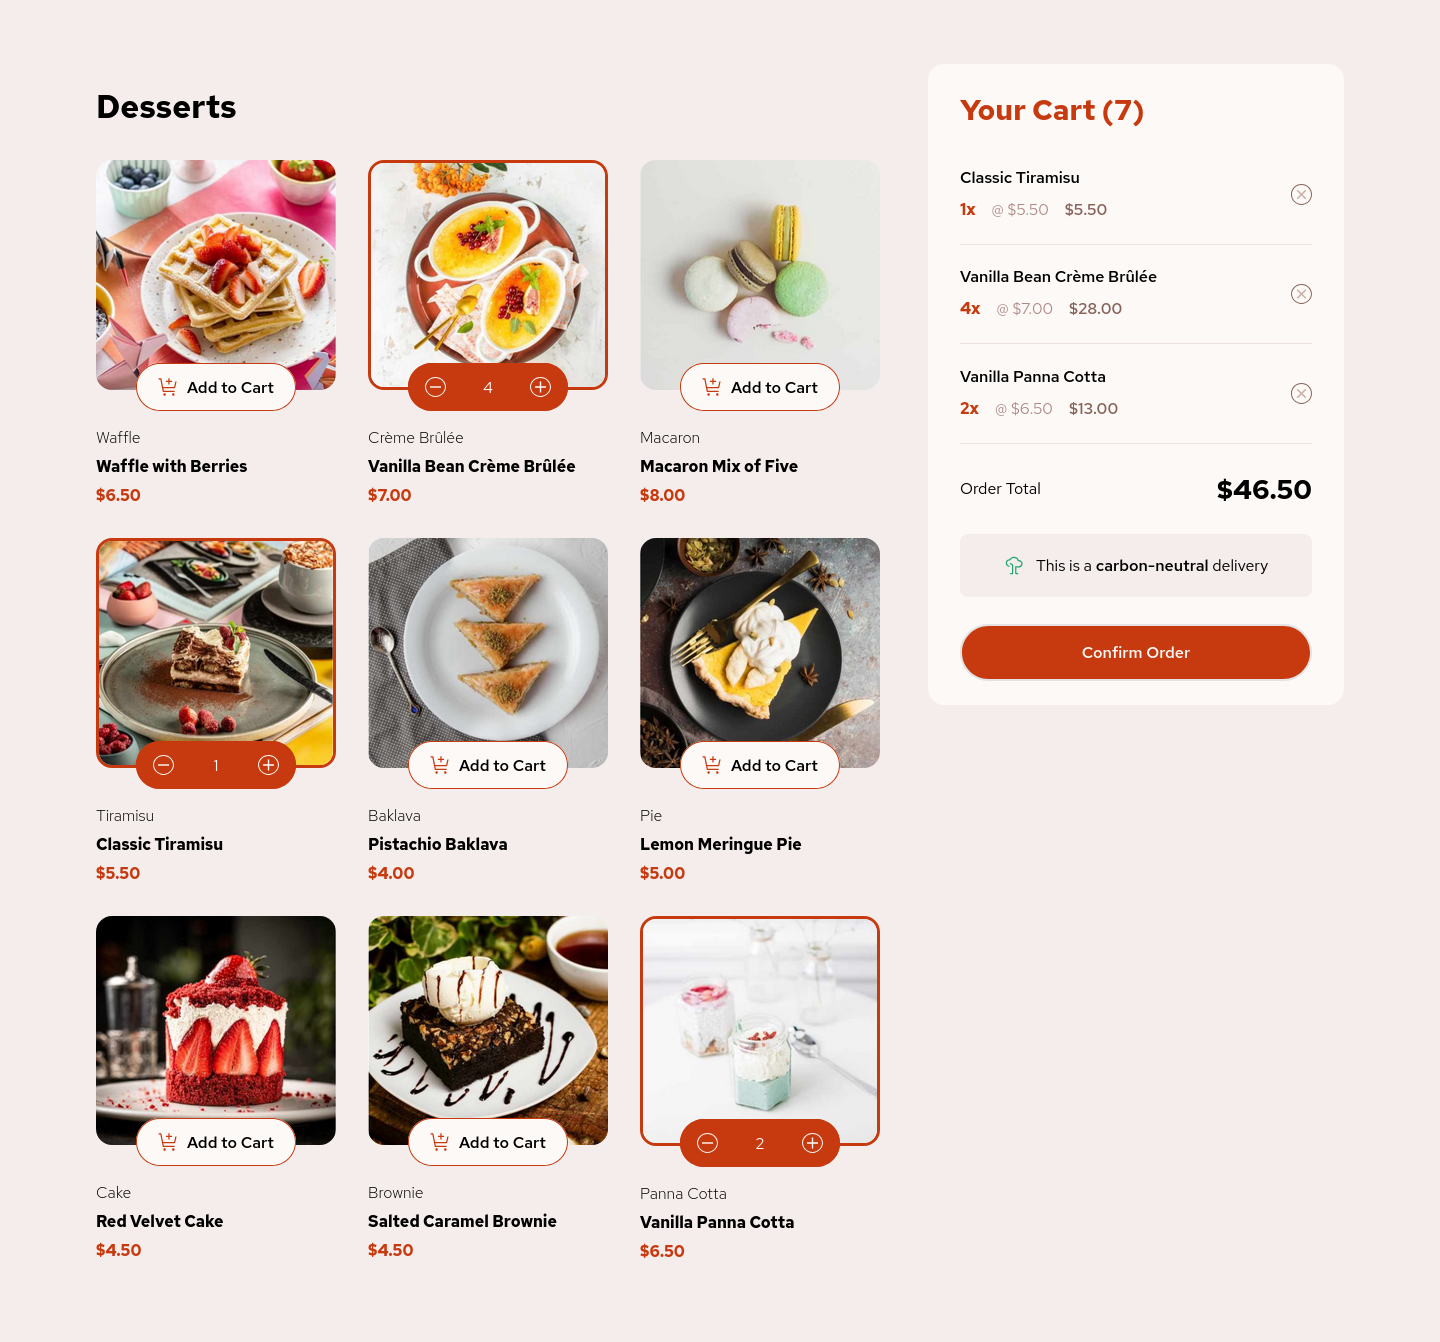
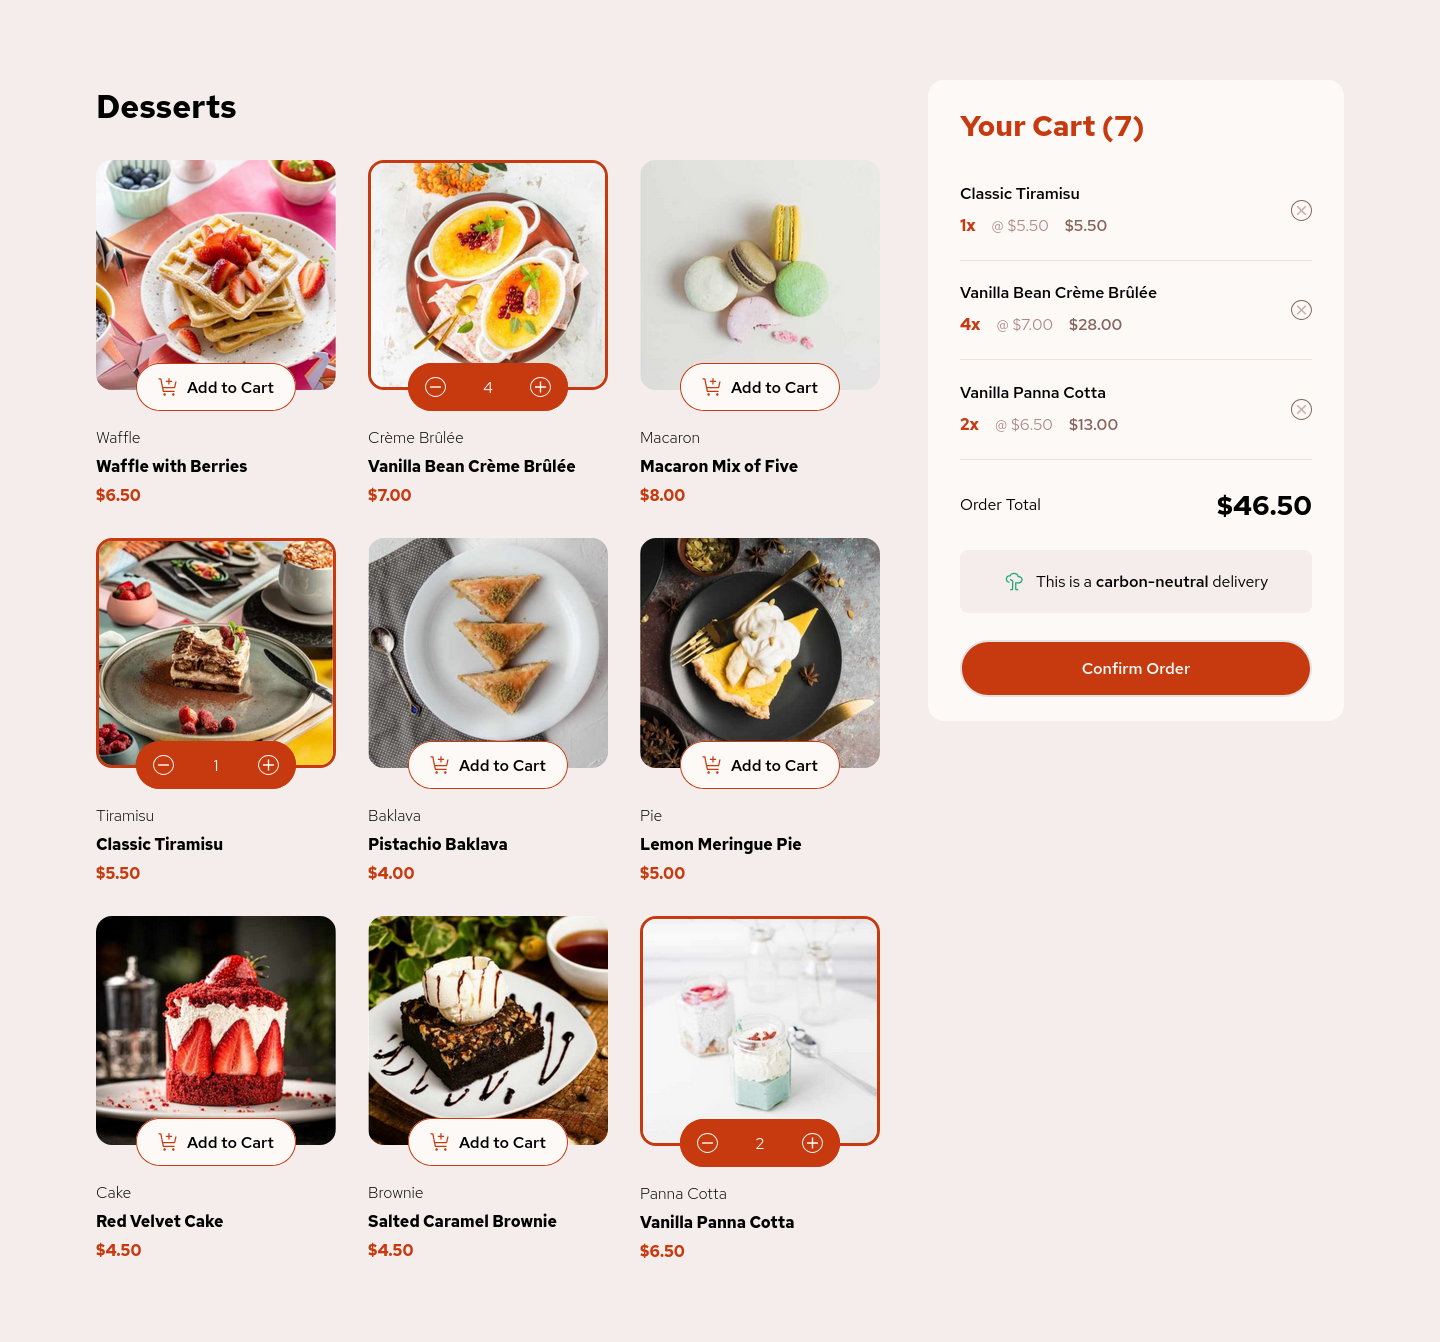
-feat added responsiveness and some improvements

diff --git a/code/src/App.vue b/code/src/App.vue
@@ -13,6 +13,17 @@ const cart = reactive({
 
 const orderConfirmation = ref(false);
 
+function debounce(func, delay) {
+  let timeout;
+  return function (...args) {
+    clearTimeout(timeout);
+    timeout = setTimeout(() => func.apply(this, args), delay);
+  };
+}
+
+const debouncedAddToCart = debounce((dessert) => addToCart(dessert), 100);
+const debouncedSubFromCart = debounce((dessert) => subFromCart(dessert), 100);
+
 function isInCart(dessert) {
   return cart.items.some((item) => item.name === dessert.name);
 }
@@ -49,6 +60,11 @@ function removeFromCart(dessert) {
   }
 }
 
+function confirmOrder() {
+  window.scrollTo({ top: 0, behavior: "smooth" });
+  orderConfirmation.value = true;
+}
+
 function resetCart() {
   cart.items = [];
   cart.totalItems = 0;
@@ -58,7 +74,9 @@ function resetCart() {
 
 watch(orderConfirmation, (isOpen) => {
   if (isOpen) {
-    document.body.classList.add("no-scroll");
+    setTimeout(() => {
+      document.body.classList.add("no-scroll");
+    }, 1000);
   } else {
     document.body.classList.remove("no-scroll");
   }
@@ -94,7 +112,7 @@ watch(orderConfirmation, (isOpen) => {
             </picture>
             <button
               v-if="!isInCart(dessert)"
-              v-on:click="addToCart(dessert)"
+              v-on:click="debouncedAddToCart(dessert)"
               class="dessert-button"
             >
               <img
@@ -105,7 +123,7 @@ watch(orderConfirmation, (isOpen) => {
             <div class="dessert-control" v-else-if="isInCart(dessert)">
               <button
                 class="dessert-control-decrement"
-                v-on:click="subFromCart(dessert)"
+                v-on:click="debouncedSubFromCart(dessert)"
               >
                 <img src="./assets/images/icon-decrement-quantity.svg" />
               </button>
@@ -114,7 +132,7 @@ watch(orderConfirmation, (isOpen) => {
               }}
               <button
                 class="dessert-control-increment"
-                v-on:click="addToCart(dessert)"
+                v-on:click="debouncedAddToCart(dessert)"
               >
                 <img src="./assets/images/icon-increment-quantity.svg" />
               </button>
@@ -128,7 +146,11 @@ watch(orderConfirmation, (isOpen) => {
     </div>
     <div class="cart">
       <h1>Your Cart ({{ cart.totalItems }})</h1>
-      <div class="cart-items">
+      <div v-if="!cart.totalItems" class="empty-cart">
+        <img src="./assets/images/illustration-empty-cart.svg" />
+        <p>Your added items will appear here</p>
+      </div>
+      <div v-if="cart.totalItems" class="cart-items">
         <div class="cart-item" v-for="(item, index) in cart.items" :key="index">
           <div class="cart-item-details">
             <h2 class="cart-item-name">{{ item.name }}</h2>
@@ -145,26 +167,30 @@ watch(orderConfirmation, (isOpen) => {
           </button>
         </div>
       </div>
-      <div class="cart-total-order">
+      <div v-if="cart.totalItems" class="cart-total-order">
         <p>Order Total</p>
         <h2 class="cart-total-order-value">
           ${{ cart.totalOrder.toFixed(2) }}
         </h2>
       </div>
-      <div class="carbon-neutral">
+      <div v-if="cart.totalItems" class="carbon-neutral">
         <img src="./assets/images/icon-carbon-neutral.svg" />
         <p>This is a <strong>carbon-neutral</strong> delivery</p>
       </div>
       <button
-        :disabled="cart.totalItems === 0"
+        v-if="cart.totalItems"
         class="confirm-order"
-        v-on:click="orderConfirmation = true"
+        v-on:click="confirmOrder"
       >
         Confirm Order
       </button>
     </div>
     <div v-if="orderConfirmation">
-      <OrderConfirmationModal :cart="cart" @resetCart="resetCart" @close="orderConfirmation=false" />
+      <OrderConfirmationModal
+        :cart="cart"
+        @resetCart="resetCart"
+        @close="orderConfirmation = false"
+      />
     </div>
   </main>
 </template>
@@ -320,7 +346,7 @@ main {
   border-radius: 1rem;
   width: 100%;
   height: max-content;
-  margin: 2rem 0;
+  margin: 3rem 0;
   margin-right: 2rem;
 }
 
@@ -328,6 +354,25 @@ main {
   font-size: 1.8rem;
   margin-bottom: 1rem;
   color: hsl(14, 86%, 42%);
+}
+
+.empty-cart {
+  display: flex;
+  flex-direction: column;
+  align-items: center;
+  justify-content: center;
+  padding: 2rem 0;
+  gap: 1rem;
+}
+
+.empty-cart img {
+  width: 10rem;
+  height: 10rem;
+}
+
+.empty-cart p {
+  font-weight: 600;
+  color: hsl(12, 20%, 44%);
 }
 
 .cart-items {
@@ -453,9 +498,49 @@ main {
   cursor: pointer;
 }
 
-.confirm-order:disabled {
-  background-color: hsl(13, 31%, 94%);
-  color: hsl(14, 25%, 72%);
-  cursor: not-allowed;
+@media (max-width: 1024px) {
+  main {
+    flex-direction: column;
+    align-items: center;
+    gap: 1rem;
+    padding: 0;
+    resize: none;
+    box-sizing: border-box;
+    overflow-x: hidden;
+  }
+
+  /* ----- DESSERTS ----- */
+  .desserts {
+    padding: 0 2rem;
+    width: 90%;
+  }
+
+  .desserts h1 {
+    font-size: 2.5rem;
+    margin: 2rem 0;
+  }
+
+  .desserts-items {
+    display: flex;
+    flex-direction: column;
+    gap: 0.5rem;
+  }
+
+  .dessert-image {
+    width: 100%;
+  }
+
+  .dessert-category {
+    margin: 1.5rem 0 0;
+  }
+
+  /* ----- CARTS ----- */
+  .cart {
+    padding: 0 2rem;
+    width: 90%;
+    margin: 0 0 2rem;
+    resize: none;
+    box-sizing: border-box;
+  }
 }
 </style>

diff --git a/code/src/components/OrderConfirmationModal.vue b/code/src/components/OrderConfirmationModal.vue
@@ -18,9 +18,12 @@ function closeModal() {
   <div class="modal-overlay">
     <div class="modal">
       <div class="modal-header">
-      <img class="modal-icon" src="../assets/images/icon-order-confirmed.svg" />
-      <h1 class="modal-title">Order Confirmed</h1>
-      <p class="modal-message">We hope you enjoy your food!</p>
+        <img
+          class="modal-icon"
+          src="../assets/images/icon-order-confirmed.svg"
+        />
+        <h1 class="modal-title">Order Confirmed</h1>
+        <p class="modal-message">We hope you enjoy your food!</p>
       </div>
       <div class="order-itens">
         <div
@@ -192,5 +195,18 @@ function closeModal() {
   background-color: hsl(14, 86%, 32%);
   color: hsl(14, 25%, 82%);
   cursor: pointer;
+}
+
+@media (max-width: 1024px) {
+  .modal-overlay {
+    align-items: flex-end;
+  }
+
+  .modal {
+    width: auto;
+    height: max-content;
+    max-height: 80dvh;
+    overflow-y: visible;
+  }
 }
 </style>

diff --git a/code/vite.config.js b/code/vite.config.js
@@ -4,4 +4,7 @@ import vue from '@vitejs/plugin-vue'
 // https://vite.dev/config/
 export default defineConfig({
   plugins: [vue()],
+  server: {
+    host: true,
+  }
 })

diff --git a/README.md b/README.md
@@ -18,10 +18,14 @@ Users should be able to:
 
 ![PC](Screenshot%20-%20PC.png)
 
-<!-- ### Links
+- Mobile
 
-- Solution URL: [Add solution URL here](https://your-solution-url.com)
-- Live Site URL: [Add live site URL here](https://your-live-site-url.com) -->
+![Mobile](Screenshot%20-%20Mobile.png)
+
+### Links
+
+- Solution URL: [GitHub](https://github.com/weslleyvieira-dev/Product-List-With-Cart)
+- Live Site URL: [Vercel](https://product-list-with-cart-one-phi.vercel.app/)
 
 ### Built with
 
